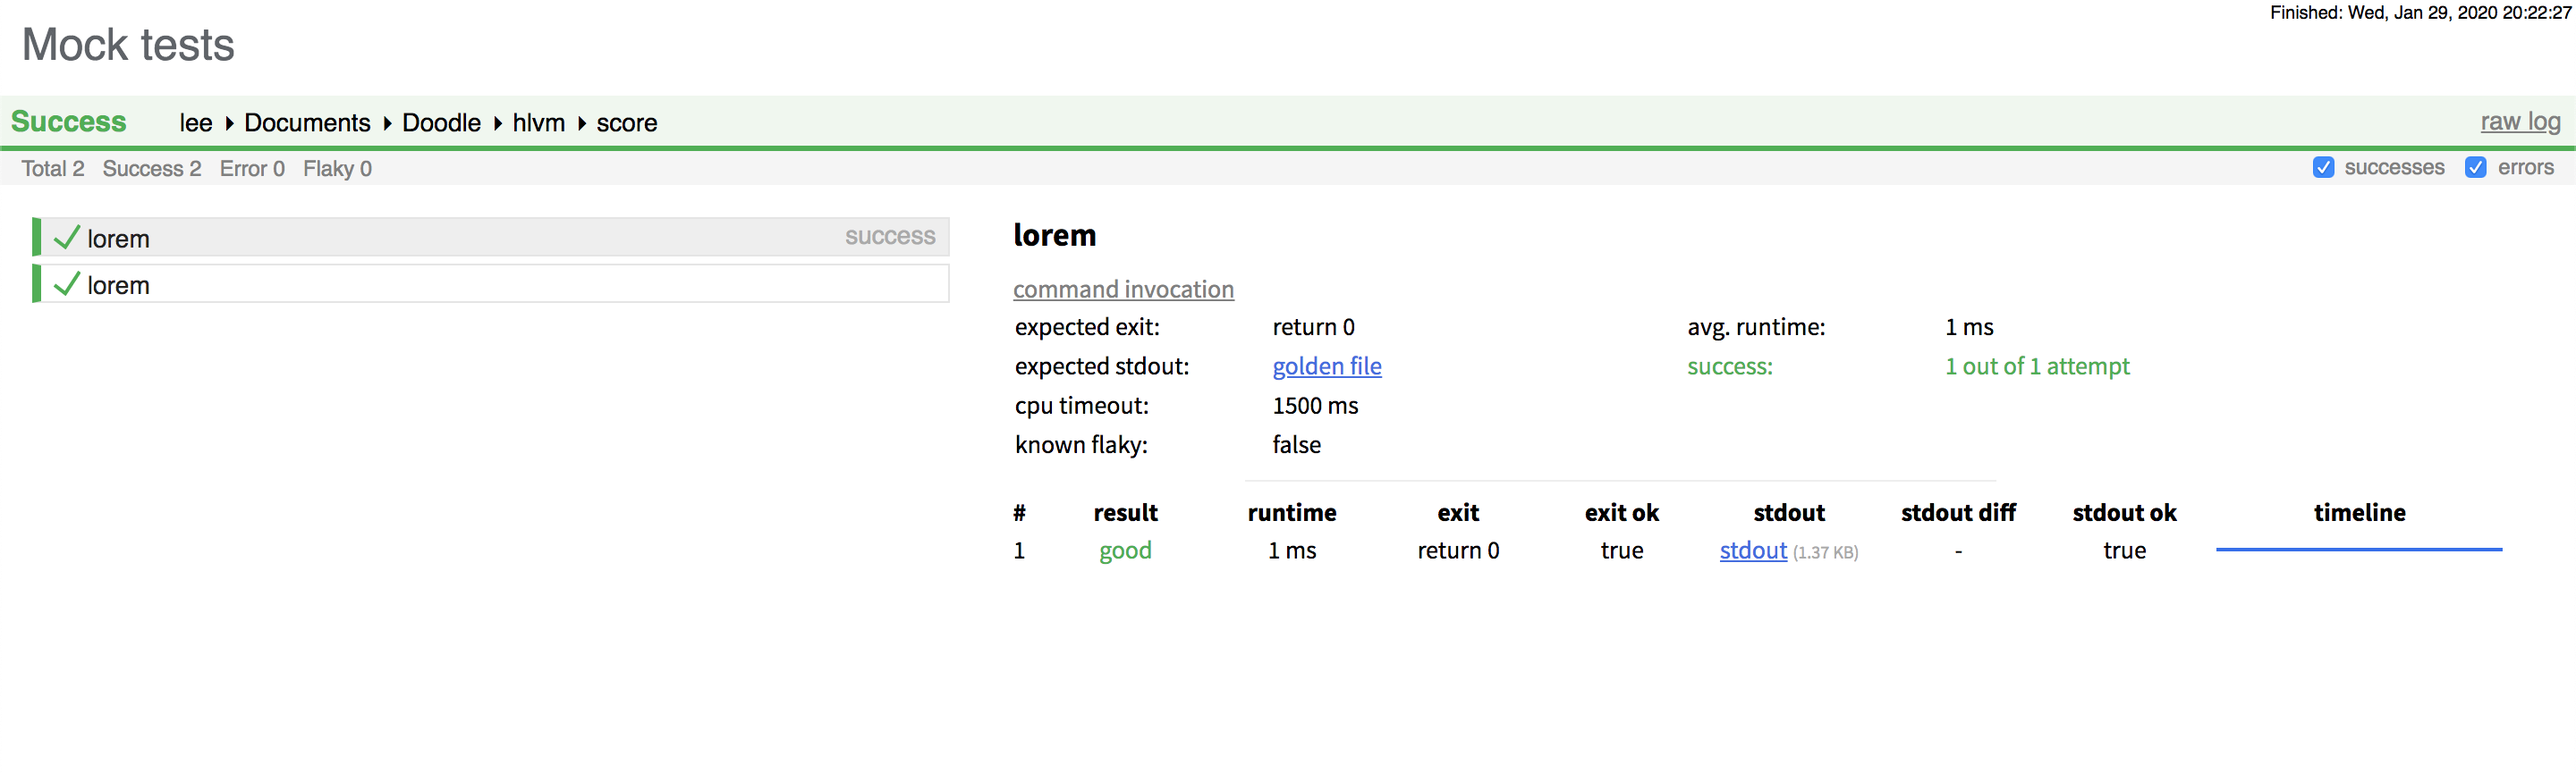
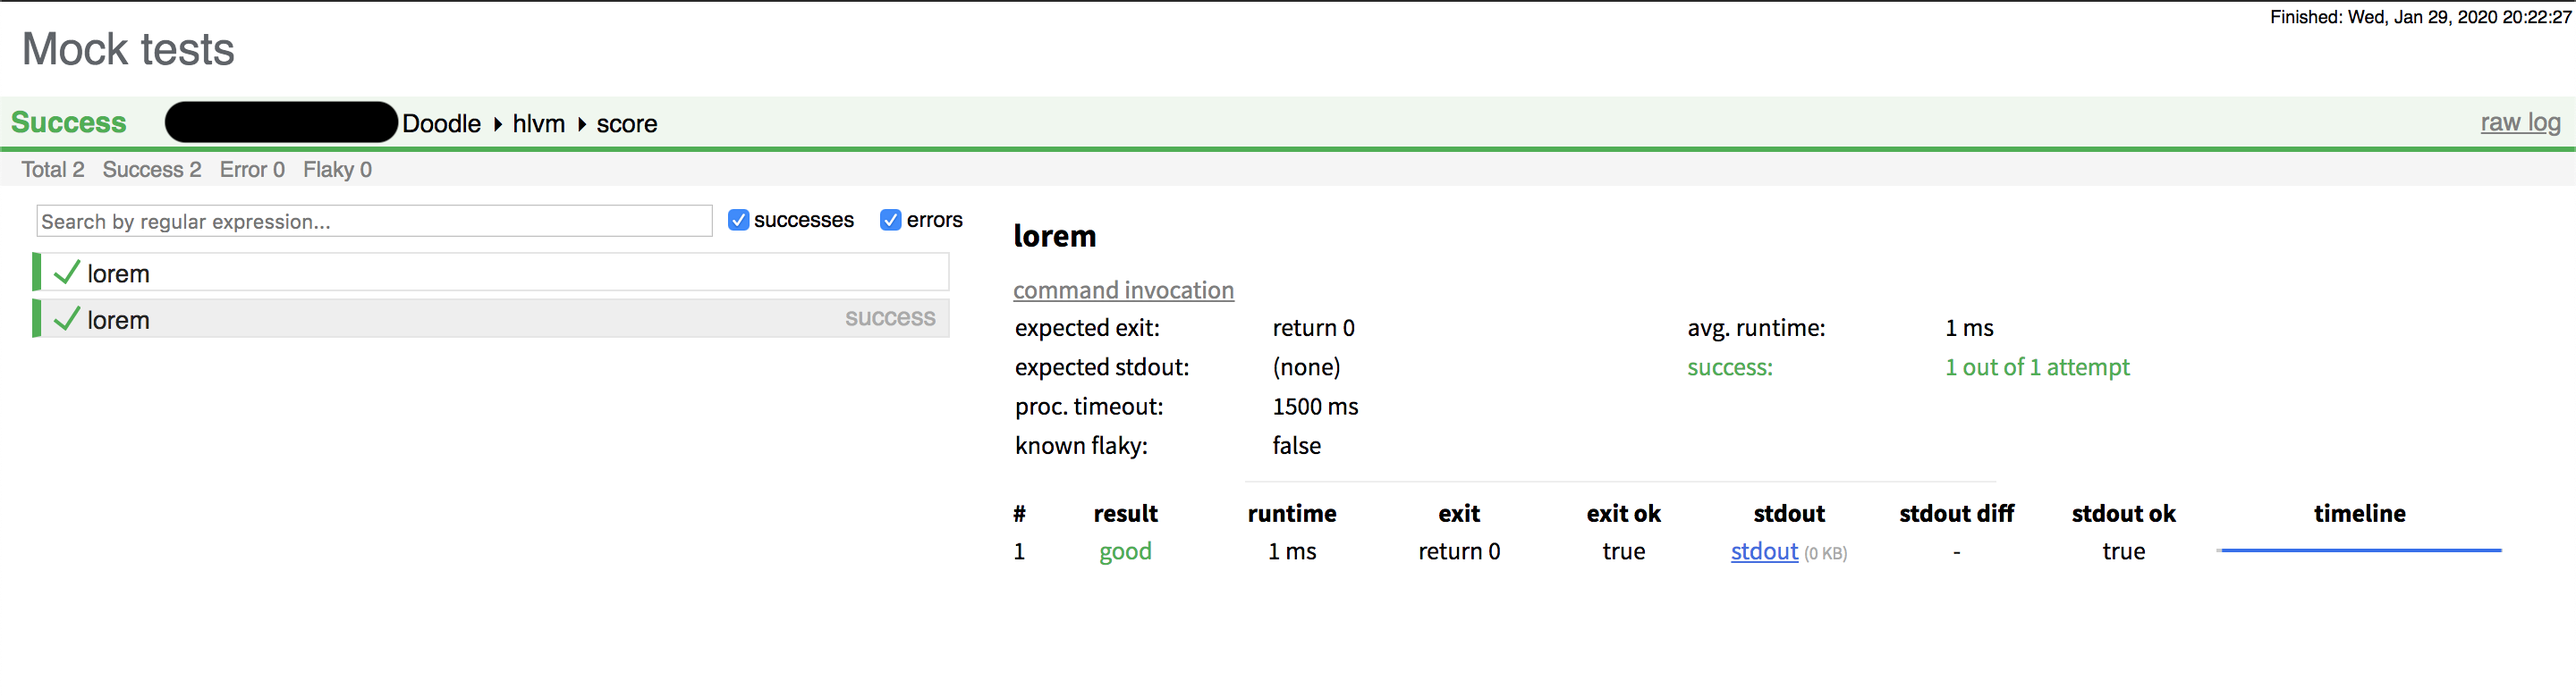
score_view.py: add a search box

diff --git a/static/js/test-entries.js b/static/js/test-entries.js
@@ -19,7 +19,8 @@ let gDetailPanelPlaceholder = (function() {
 const gDetailPanel = document.querySelector('.entry_details_view');
 replaceView(gDetailPanel, gDetailPanelPlaceholder);
 
-Array.from(document.getElementsByClassName('test_entry_button')).forEach(button => {
+const gTestEntryButtons = document.body.querySelectorAll('.test_entry_button');
+gTestEntryButtons.forEach(button => {
     const entryDetail = getEntryDetailFromEntryButton(button);
     button.addEventListener('click', () => {
         const clickedOnSelectedButton = window.gSelectedButton === button;
@@ -179,27 +180,62 @@ function makeSvgPath({ width, height, path, color }) {
 
 const checkboxShowErrors = document.body.querySelector(
     'input#view_control_visibility_checkbox_errors');
-const controlledByShowErrors = document.body.querySelectorAll([
+const controlledByShowErrors = document.body.querySelectorAll(
     '.test_entry_button.status_error',
-    '.test_entry_detail.status_error',
-].join(','));
+);
 const checkboxShowSuccesses = document.body.querySelector(
     'input#view_control_visibility_checkbox_successes');
 const controlledByShowSuccesses = document.body.querySelectorAll([
     '.test_entry_button.status_success',
-    '.test_entry_detail.status_success',
-    '.test_entry_button.status_pseudo_success',
-    '.test_entry_detail.status_pseudo_success',
+    '.test_entry_button.status_pseudo_success', // known flaky tests which succeeded
 ].join(','));
-const displaySetter = /** @type {boolean} */ condition => element => {
-    element.style.display = condition ? null : 'none';
+const searchBarElement = document.body.querySelector(
+  'input.entries_search_bar'
+);
+
+/**
+ * @param {!HTMLButtonElement} buttonElement
+ * @param {boolean} shouldDisplay
+ */
+function setButtonDisplayState(buttonElement, shouldDisplay) {
+    buttonElement.style.display = shouldDisplay ? null : 'none';
+    if (!shouldDisplay && window.gSelectedButton === buttonElement) {
+      window.gSelectedButton = null;
+      buttonElement.classList.remove('test_entry_detail_displayed');
+      replaceView(gDetailPanel, gDetailPanelPlaceholder);
+    }
 };
+let displayEntryCriteria = {showSuccesses: true, showErrors: true, descQuery: ''};
+function updateDisplayState(updateState) {
+    Object.assign(displayEntryCriteria, updateState);
+    gTestEntryButtons.forEach(button => {
+        const desc = button.querySelector('span#full_description').textContent;
+        const isSuccess = button.classList.contains('status_success')
+            || button.classList.contains('status_pseudo_success');
+        const isError = button.classList.contains('status_error');
+        const pickedUpByShowSuccess = displayEntryCriteria.showSuccesses && isSuccess;
+        const pickedUpByShowError = displayEntryCriteria.showErrors && isError;
+        let pickedUpByDescQuery = true;
+        try {
+          pickedUpByDescQuery = desc.search(new RegExp(displayEntryCriteria.descQuery)) >= 0;
+        } catch (e) { // Invalid Regex
+          searchBarElement.style = "color: #f03f50;"; // Red
+          console.log(searchBarElement.style);
+          return;
+        }
+        searchBarElement.style = "color: initial;";
+        if ((pickedUpByShowSuccess || pickedUpByShowError) && pickedUpByDescQuery) {
+            setButtonDisplayState(button, true);
+        } else {
+            setButtonDisplayState(button, false);
+        }
+    });
+}
 const opacitySetter = /** @type {number|null} */ opacity => element => {
     element.style.opacity = opacity;
 };
 checkboxShowErrors.addEventListener('click', () => {
-    controlledByShowErrors.forEach(
-        displaySetter(checkboxShowErrors.checked));
+    updateDisplayState({showErrors: checkboxShowErrors.checked});
 });
 checkboxShowErrors.addEventListener('mouseenter', () => {
     controlledByShowErrors.forEach(opacitySetter(0.5));
@@ -208,8 +244,7 @@ checkboxShowErrors.addEventListener('mouseout', () => {
     controlledByShowErrors.forEach(opacitySetter(null));
 });
 checkboxShowSuccesses.addEventListener('click', () => {
-    controlledByShowSuccesses.forEach(
-        displaySetter(checkboxShowSuccesses.checked));
+    updateDisplayState({showSuccesses: checkboxShowSuccesses.checked});
 });
 checkboxShowSuccesses.addEventListener('mouseenter', () => {
     controlledByShowSuccesses.forEach(opacitySetter(0.5));
@@ -217,6 +252,10 @@ checkboxShowSuccesses.addEventListener('mouseenter', () => {
 checkboxShowSuccesses.addEventListener('mouseout', () => {
     controlledByShowSuccesses.forEach(opacitySetter(null));
 });
+searchBarElement.addEventListener('keyup', () => {
+  // Not 'keypress' because it doesn't catch Deletion key.
+  updateDisplayState({descQuery: searchBarElement.value});
+})
 
 /**
  * @param {!HTMLElement} entryDetail
@@ -232,7 +271,6 @@ function makeEntryDetailView(entryDetail) {
     }
     const stdoutAnchor = cloned.querySelector('.link_stdout');
     if (stdoutAnchor) {
-        console.log(gDetailPanel.width, gDetailPanel.height);
         AddIframeOpenListener(stdoutAnchor);
     }
     cloned.style.maxHeight = fullHeight;

diff --git a/templates/main.html b/templates/main.html
@@ -29,16 +29,18 @@
         </div>
         <div class="sub_status_bar">
             <span id="test_results_stats">><!-- JS generated --></span>
-            <span id="view_control_panel">
-                <input type="checkbox" id="view_control_visibility_checkbox_successes" checked>
-                successes
-                <span class="view_control_panel_vertial_divider"></span>
-                <input type="checkbox" id="view_control_visibility_checkbox_errors" checked>
-                errors
-            </span>
         </div>
         <div class="row">
           <div class="column column_left">
+            <div id="view_control_panel">
+                <span class="view_control_checkboxes">
+                  <label><input type="checkbox" id="view_control_visibility_checkbox_successes" checked>successes</label>
+                  <span class="view_control_panel_vertial_divider"></span>
+                  <label><input type="checkbox" id="view_control_visibility_checkbox_errors" checked>errors</label>
+                </span>
+                <span class="view_control_panel_vertial_divider"></span>
+                <input class="entries_search_bar" type="text" placeholder="Search by regular expression...">
+            </div>
             <div class="entries_view_html">{entries_view_html}</div>
             <br>
             <div class="disabled_cases">

diff --git a/static/css/main.css b/static/css/main.css
@@ -79,21 +79,6 @@ body {
     left: 12px;
 }
 
-.sub_status_bar #view_control_panel {
-    position: absolute;
-    right: 12px;
-}
-
-.sub_status_bar #view_control_panel .view_control_panel_vertial_divider {
-    width: 2px;
-    display: inline-block;
-}
-
-.sub_status_bar #view_control_panel #view_control_visibility_checkbox_successes,
-.sub_status_bar #view_control_panel #view_control_visibility_checkbox_errors {
-    cursor: pointer;
-}
-
 .entries_view_html {
     width: 100%;
     margin: 6px 6px;
@@ -113,6 +98,35 @@ body {
 .column_right {
     width: 60%;
     max-height: 100vh;
+}
+
+#view_control_panel {
+  font-family: Helvetica, sans-serif;
+  font-weight: normal;
+  font-size: 12px;
+  margin-left: 10px;
+  position: relative;
+  display: flex;
+  flex-direction: row-reverse;
+  width: 100%;
+}
+
+#view_control_panel .entries_search_bar {
+  flex-grow: 1
+}
+
+#view_control_panel .view_control_panel_vertial_divider {
+  width: 5px;
+  display: inline-block;
+}
+
+#view_control_panel .view_control_checkboxes {
+  display: inline-block;
+}
+
+#view_control_panel .view_control_checkboxes #view_control_visibility_checkbox_successes,
+#view_control_panel .view_control_checkboxes #view_control_visibility_checkbox_errors {
+  cursor: pointer;
 }
 
 .entry_details_view {

diff --git a/templates/entry_piece.html b/templates/entry_piece.html
@@ -13,7 +13,7 @@
       {test_description_with_ellipse_if_necessary}
     </span>
     <span id="status_message"><!-- JS generated --></span>
-    <span class="tooltip_text">{test_description}</span>
+    <span class="tooltip_text" id="full_description">{test_description}</span>
 </button>
 <div class="test_entry_detail">
     <div class="detail_test_description">{test_description}</div>

diff --git a/README.md b/README.md
@@ -96,8 +96,9 @@ It can be used as a standalone program or as a package.
 
 > NOTE: the static page uses primitive HTML, CSS, and JS, and does not
 require any third-party packages. This is ad-hoc and does not adhere
-to modern best practices in website engineering. However, it is not
-intended to build a complex website in the first place.
+to modern best practices in website engineering (indeed, we can't use
+Node, webpack etc. here). However, it is not intended to build a
+complex website in the first place.
 
 ```
 ./score_view.py -h
